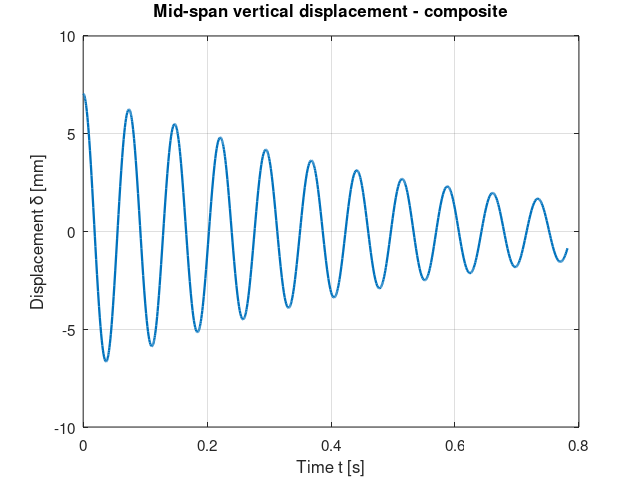
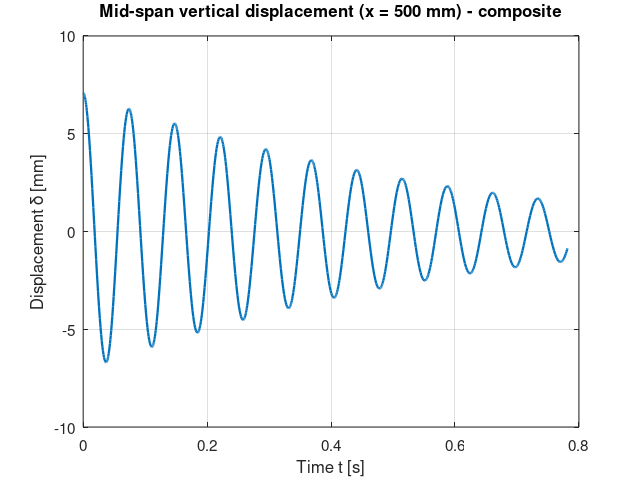
Mid-span read-out at exactly x = L/2 (cubic Hermite from nodes 8-9); keep node-9 value as res.midspan_node; tests, docs, KNOWN_ISSUES #9, catalog peaks, figures

diff --git a/tests/run_tests.m b/tests/run_tests.m
@@ -40,6 +40,30 @@ check('plot_fields: <case>_fields.png and <case>_strain.png written, no figure l
     exist(fullfile(od,'base_fields.png'),'file')==2 && exist(fullfile(od,'base_strain.png'),'file')==2 && numel(findall(0,'type','figure'))==nfig0, ...
     sprintf('(%d figures open)', numel(findall(0,'type','figure'))));
 
+% 2c. mid-span value: deflection at exactly x = L/2 (Hermite) - consistent with the strain_figure shape, the
+%     node value, and exact for synthetic data (src/midspan_deflection.m; dof map of build_beam.m)
+Nn = 16; Ln = 1000; Lk = Ln/(Nn-1); xn = (0:Nn-1)'*Lk;
+wn = sin(pi*xn/Ln); thn = pi/Ln*cos(pi*xn/Ln); un = zeros(1,2*Nn-2);
+for k = 2:Nn-1, un(2*k-3) = wn(k); un(2*k-2) = thn(k); end
+un(2*Nn-3) = thn(1); un(2*Nn-2) = thn(Nn);
+[wmid,wnode,minfo] = midspan_deflection([zeros(1,2*Nn-2) un], Nn, Ln);
+check('midspan_deflection: sin(pi x/L) -> 1 at x = L/2 (Hermite, N=16), node 9 is lower', abs(wmid-1) < 1e-4 && abs(wnode-sin(pi*xn(9)/Ln)) < 1e-12 && minfo.x_node > 500, ...
+    sprintf('w(L/2) = %.7f, node %d (x = %.1f mm) = %.5f', wmid, minfo.node, minfo.x_node, wnode));
+Nn = 15; Lk = Ln/(Nn-1); xn = (0:Nn-1)'*Lk; wn = sin(pi*xn/Ln); thn = pi/Ln*cos(pi*xn/Ln); un = zeros(1,2*Nn-2);
+for k = 2:Nn-1, un(2*k-3) = wn(k); un(2*k-2) = thn(k); end
+un(2*Nn-3) = thn(1); un(2*Nn-2) = thn(Nn);
+[wmid,~,minfo] = midspan_deflection([zeros(1,2*Nn-2) un], Nn, Ln);
+check('midspan_deflection: N-1 even -> the middle node itself', abs(wmid-1) < 1e-12 && minfo.x_node == 500, sprintf('node %d at x = %g mm', minfo.node, minfo.x_node));
+fh = figure('visible','off');
+[xs_,ws_] = strain_figure(rf.fields.epsyylon, rf.XX, 16, 1000, 10, rf.TT(end), fh); close(fh);
+[~,im_] = min(abs(xs_-500));
+check('res.midspan(end) == deformed shape of strain_figure at x = L/2', abs(xs_(im_)-500) < 1e-9 && abs(ws_(im_)-rf.midspan(end)) < 1e-9*max(1,abs(rf.midspan(end))), ...
+    sprintf('%.6f vs %.6f mm', ws_(im_), rf.midspan(end)));
+mm_ = abs(rf.midspan_node) > 0.5*max(abs(rf.midspan_node));
+rat_ = rf.midspan(mm_)./rf.midspan_node(mm_);
+check('mode-1 midspan is ~0.5-0.7 % larger than node 9', all(rat_ > 1.003 & rat_ < 1.010) && rf.x_midspan_node > 530 && rf.x_midspan_node < 535, ...
+    sprintf('ratio %.4f..%.4f, node 9 at x = %.1f mm', min(rat_), max(rat_), rf.x_midspan_node));
+
 % 3. global state is reset between runs: same case twice in one session -> identical
 r2 = run_case('base','Tf',Tf,'figures','none','save_mat',false);
 check('re-run in the same session identical', isequal(r.XX,r2.XX), sprintf('max |dXX| = %g', max(abs(r.XX(:)-r2.XX(:)))));
@@ -72,7 +96,7 @@ if strcmp(mode,'full')
     % 7. full base case: peaks vs thesis Fig. 4.3 and the stored reference run of the Octave port
     r = run_case('base','figures','save','save_mat',false);
     pk = r.peaks(:,2)';
-    expect = [7.09 5.49 4.15 3.07 2.24 1.61];   % with the corrected (||) Newton loop; the original && gave 5.494 / 4.155 / 3.076
+    expect = [7.13 5.52 4.17 3.09 2.25 1.62];   % deflection at x = L/2 (Hermite), corrected (||) Newton loop; node 9 (before 13 Nov 2026) gave 7.09 5.49 4.15 3.07 2.24 1.61
     check('base full run: ring-down peaks', numel(pk) >= 6 && all(abs(pk(1:6)-expect) < 0.02), ...
         sprintf('peaks [mm]: %s (expected %s; thesis Fig. 4.3: ~5.5 4.15 3.1 2.2 1.6 after the first)', mat2str(pk(1:min(6,end)),3), mat2str(expect)));
     r = run_case('composite','figures','save','save_mat',false);

diff --git a/run_case.m b/run_case.m
@@ -25,7 +25,8 @@ function res = run_case(c, varargin)
 %     'plot_fields' true = also plot, at the last time step, the martensite fractions (src/meshare.m, <case>_fields.png)
 %                   and the deformed beam + strain map (src/strain_figure.m, <case>_strain.png)
 %
-%   Returns res with fields TT, XX, midspan, runtime_s, cfg, peaks (time, height).
+%   Returns res with fields TT, XX, midspan (deflection at x = L/2, Hermite-interpolated), midspan_node
+%   (old value: node 9, x = res.x_midspan_node), runtime_s, cfg, peaks (time, height of midspan).
 setup_paths();
 if nargin == 0
     fig = sma_gui();                      % interactive start window (or text menu without display)
@@ -96,13 +97,13 @@ show = any(strcmp(opt.figures,{'show','both'}));
 dosave = any(strcmp(opt.figures,{'save','both'}));
 if ~strcmp(opt.figures,'none')
     if show, f = figure; else, f = figure('visible','off'); end
-    plot(res.TT, res.midspan, 'LineWidth', 1.5); hold on
+    plot(res.TT, res.midspan, 'LineWidth', 1.5); hold on   % deflection at x = L/2
     if ~isempty(ref), plot(ref.TT, ref.midspan, 'LineWidth', 1.5); end
     grid on; xlabel('Time t [s]'); ylabel('Displacement \delta [mm]');
-    ttl = sprintf('Mid-span vertical displacement - %s', strrep(cfg.name,'_','\_'));
+    ttl = sprintf('Mid-span vertical displacement (x = %g mm) - %s', cfg.geom.L/2, strrep(cfg.name,'_','\_'));
     if cfg.p_modified, ttl = [ttl ' (modified p)']; end
     title(ttl);
-    if ~isempty(ref), legend('SMA (loss-factor damping)','linear reference, E = 26 GPa, Rayleigh 1.3 %'); end
+    if ~isempty(ref), legend(sprintf('SMA (loss-factor damping), x = %g mm',cfg.geom.L/2),sprintf('linear reference, E = 26 GPa, Rayleigh 1.3 %%, x = %g mm',cfg.geom.L/2)); end
     if dosave
         if ~exist(opt.outdir,'dir'), mkdir(opt.outdir); end
         fn = fullfile(opt.outdir, [cfg.name tag '_midspan.png']);
@@ -136,8 +137,8 @@ if opt.plot_fields && isfield(res,'fields') && strcmp(cfg.model,'two_phase') && 
 end
 if opt.save_mat
     if ~exist(opt.outdir,'dir'), mkdir(opt.outdir); end
-    TT = res.TT; XX = res.XX; midspan = res.midspan; peaks = res.peaks; %#ok<NASGU>
-    save('-v7', fullfile(opt.outdir,[cfg.name tag '_result.mat']), 'TT','XX','midspan','peaks','cfg');
+    TT = res.TT; XX = res.XX; midspan = res.midspan; midspan_node = res.midspan_node; x_midspan_node = res.x_midspan_node; peaks = res.peaks; %#ok<NASGU>
+    save('-v7', fullfile(opt.outdir,[cfg.name tag '_result.mat']), 'TT','XX','midspan','midspan_node','x_midspan_node','peaks','cfg');
 end
 end
 

diff --git a/src/midspan_deflection.m b/src/midspan_deflection.m
@@ -1,0 +1,44 @@
+function [wm, w_node, info] = midspan_deflection(XX, N, L)
+% MIDSPAN_DEFLECTION  vertical deflection of the beam at EXACTLY x = L/2, from the state history XX.
+%
+%   [wm, w_node, info] = midspan_deflection(XX, N, L)
+%     XX      state history, one row per time step, X = [velocities(2N-2) ; displacements(2N-2)]
+%     wm      deflection at x = L/2 [mm]: cubic Hermite interpolation with the shape functions of the
+%             Euler-Bernoulli element (the same as in the FE model) through w and theta of the two nodes
+%             that bracket L/2 (nodes 8 and 9 for N = 16). If a node sits exactly at L/2 (N odd) its
+%             deflection is returned.
+%     w_node  the OLD "mid-span" value: deflection of one node near the middle (node N/2+1 = 9 for N = 16,
+%             x = 533 mm, which is what the original code and all results before 13 Nov 2026 used)
+%     info    struct: .x_node, .node (index), .col (column in XX of that node's deflection),
+%             .elem, .s (position of L/2 inside the bracketing element, 0..1), .nodes (bracketing nodes)
+%
+% DOF MAP (checked against src/build_beam.m: Extr / Extr_tr; the element dofs are [w_a theta_a w_b theta_b]
+% with theta = dw/dx - the element B matrix is built from the second derivatives of the same Hermite
+% functions, curvature = w'' = Bk*[...], strain = -y*w''):
+%   free displacement dofs u(1:2N-2) = XX(:, 2N-1:end)
+%   node k = 2..N-1 : w_k = u(2k-3), theta_k = u(2k-2)
+%   node 1          : w_1 = 0 (support), theta_1 = u(2N-3)
+%   node N          : w_N = 0 (support), theta_N = u(2N-2)
+Lk = L/(N-1);
+u  = XX(:, 2*N-1:end);
+nr = size(XX,1);
+w  = zeros(nr,N);  th = zeros(nr,N);
+for k = 2:N-1
+    w(:,k)  = u(:,2*k-3);
+    th(:,k) = u(:,2*k-2);
+end
+th(:,1) = u(:,2*N-3);
+th(:,N) = u(:,2*N-2);
+
+xm = L/2;
+e  = min(floor(xm/Lk + 1e-9) + 1, N-1);        % element that contains L/2
+s  = (xm - (e-1)*Lk)/Lk;                        % 0..1 inside that element
+if s < 1e-9, s = 0; end                         % a node sits exactly at L/2
+h1 = 1-3*s^2+2*s^3;   h2 = Lk*(s-2*s^2+s^3);    % Hermite shape functions at s
+h3 = 3*s^2-2*s^3;     h4 = Lk*(-s^2+s^3);
+wm = h1*w(:,e) + h2*th(:,e) + h3*w(:,e+1) + h4*th(:,e+1);
+
+if mod(N,2) == 0, node = N/2+1; else, node = (N+1)/2; end   % N even: node 9 of 16 (as before); N odd: exact middle node
+w_node = w(:,node);
+info = struct('x_node',(node-1)*Lk, 'node',node, 'col',2*N-2+2*node-3, 'elem',e, 's',s, 'nodes',[e e+1]);
+end

diff --git a/src/sma_beam_solve.m b/src/sma_beam_solve.m
@@ -10,7 +10,8 @@ function res = sma_beam_solve(cfg)
 %
 %   res = sma_beam_solve(cfg)   cfg: struct from a cases/case_*.m file (see case_base.m)
 %   res.TT, res.XX   time [s] and state [velocities(30) displacements(30)]
-%   res.midspan      mid-span vertical displacement [mm]
+%   res.midspan      vertical displacement at x = L/2 [mm] (Hermite interpolation, nodes 8-9 for N=16)
+%   res.midspan_node old mid-span value: node 9, x = res.x_midspan_node (533 mm); res.col = its column in XX
 %   res.fields       (optional) strain / martensite fractions / stress at every step
 %
 % Variable names (N, Ea, Emp, ..., KFF, CFF, LF, xisp, ...) are the original ones.
@@ -219,13 +220,18 @@ while T(end) < Tf-0.0001
 end
 
 % ---- MID-SPAN VERTICAL DISPLACEMENT ----
-col = 2*N-2+2*N/2-1;                      % column of the mid-span displacement in X
+% res.midspan = deflection at EXACTLY x = L/2 (cubic Hermite through nodes 8 and 9 for N = 16, see
+% midspan_deflection.m). Before 13 Nov 2026 the value of node 9 (x = 533 mm) was used; it is kept as
+% res.midspan_node (column res.col of XX, position res.x_midspan_node).
+[midspan, midspan_node, mi] = midspan_deflection(XX, N, cfg.geom.L);
+col = mi.col;
 if cfg.post.shift_to_first_max
     % the time axis starts at the first (largest) mid-span maximum, as in the original
-    indice = find(XX(:,col) == max(XX(:,col)));
+    indice = find(midspan == max(midspan));
     indice = indice(1);
     TT = TT(indice:end)-TT(indice);
     XX = XX(indice:end,:);
+    midspan = midspan(indice:end);  midspan_node = midspan_node(indice:end);
     if histmode == 1                          % shift only a full history
         epsyylon = epsyylon(:,indice:end);
         xysp = xysp(:,indice:end);
@@ -240,7 +246,10 @@ end
 res.TT = TT;
 res.XX = XX;
 res.col = col;
-res.midspan = XX(:,col);
+res.midspan = midspan;                    % [mm] at x = L/2
+res.x_midspan = cfg.geom.L/2;
+res.midspan_node = midspan_node;          % [mm] old value: node mi.node, x = res.x_midspan_node
+res.x_midspan_node = mi.x_node;
 res.runtime_s = toc(tic_start);
 res.nrestart = nrestart;
 if cfg.post.keep_fields

diff --git a/src/strain_figure.m b/src/strain_figure.m
@@ -1,4 +1,4 @@
-function strain_figure(epsyylon, XX, N, L, thick, t_end, fig)
+function [xs, ws] = strain_figure(epsyylon, XX, N, L, thick, t_end, fig)
 % STRAIN_FIGURE  thesis-style picture of the beam at the LAST time step:
 %   top    : vertical displacement along the beam [mm], deformed (cubic Hermite through the nodal
 %            deflections w and rotations theta) against the undeformed axis, with nodes marked;
@@ -6,13 +6,16 @@ function strain_figure(epsyylon, XX, N, L, thick, t_end, fig)
 %            interpolation as src/meshare.m: smooth_mean2d(.,1,8) + interp2).
 %   epsyylon : strain at the integration points, one column per time step (res.fields.epsyylon)
 %   XX       : state history [velocities(2N-2) displacements(2N-2)] (res.XX), last row is used
+%   xs, ws   : (optional outputs) abscissae and deflection of the plotted deformed shape; ws at x = L/2
+%              equals res.midspan(end) (src/midspan_deflection.m, checked in tests/run_tests.m)
 %   fig      : (optional) figure handle to draw in; a new figure is opened if omitted.
 if nargin < 7 || isempty(fig), fig = figure; end
 figure(fig); clf
 Lk = L/(N-1);
 u  = XX(end, 2*N-1:end).';                 % free displacement dofs at the last step
-% nodal deflection w_k and rotation th_k (dof map of build_beam.m: node k=2..N-1 -> dofs 2k-3, 2k-2;
-% the end rotations are dofs 2N-3 (node 1) and 2N-2 (node N); w = 0 at both supports)
+% nodal deflection w_k and rotation th_k = dw/dx (dof map of build_beam.m, verified: element dofs
+% [w_a th_a w_b th_b], node k=2..N-1 -> dofs 2k-3, 2k-2; the end rotations are dofs 2N-3 (node 1)
+% and 2N-2 (node N); w = 0 at both supports; same map as src/midspan_deflection.m)
 w  = zeros(N,1);  th = zeros(N,1);
 for k = 2:N-1, w(k) = u(2*k-3); th(k) = u(2*k-2); end
 th(1) = u(2*N-3);  th(N) = u(2*N-2);

diff --git a/src/case_catalog.m b/src/case_catalog.m
@@ -16,11 +16,11 @@ rows = {
    'Cu-Al-Zn-Mn beam 1000 x 15 x 10 mm, simply supported, ferro-elastic.'
    'Released with an initial half-sine velocity; it rings down because every'
    'stress reversal dissipates energy (loss factor eta ~ 0.14, thesis Fig. 4.3).'
-   'Expected mid-span peaks: 7.09, 5.49, 4.15, 3.07, 2.24, 1.61 mm.'}
+   'Expected mid-span (x = 500 mm) peaks: 7.13, 5.52, 4.17, 3.09, 2.25, 1.62 mm.'}
  'composite', 'Composite: GFRP / SMA / GFRP sandwich beam', 2, false, {
    'SMA core 15 x 10 mm between two linear GFRP skins (thesis chapter 4.1,'
    'configuration 1). Free vibration; rings down more slowly than the pure SMA beam.'
-   'Expected mid-span peaks: 7.05, 6.25, 5.50, 4.81, 4.19, 3.63 mm.'}
+   'Expected mid-span (x = 500 mm) peaks: 7.09, 6.28, 5.53, 4.84, 4.21, 3.65 mm.'}
  'hle_linear', 'Linear reference beam (E = 26 GPa, Rayleigh 1.3 %)', 2, false, {
    'The same beam as the base case but linear elastic with Rayleigh damping.'
    'Shows what the SMA damping adds. No loss-factor polynomial is used.'}

diff --git a/src/linear_beam_solve.m b/src/linear_beam_solve.m
@@ -70,14 +70,19 @@ while T(end)<Tf-0.0001
     T0 = TT(end);
     X0 = X(end,:)';
 end
-col = 2*N-2+2*N/2-1;
+% res.midspan = deflection at EXACTLY x = L/2 (cubic Hermite, see midspan_deflection.m); the old node value
+% (node 9 of 16, x = 533 mm) is kept as res.midspan_node
+[midspan, midspan_node, mi] = midspan_deflection(XX, N, cfg.geom.L);
+col = mi.col;
 if cfg.post.shift_to_first_max
-    indice = find(XX(:,col) == max(XX(:,col)));
+    indice = find(midspan == max(midspan));
     indice = indice(1);
     TT = TT(indice:end)-TT(indice);
     XX = XX(indice:end,:);
+    midspan = midspan(indice:end);  midspan_node = midspan_node(indice:end);
 end
-res.TT = TT; res.XX = XX; res.col = col; res.midspan = XX(:,col);
+res.TT = TT; res.XX = XX; res.col = col; res.midspan = midspan; res.x_midspan = cfg.geom.L/2;
+res.midspan_node = midspan_node; res.x_midspan_node = mi.x_node;
 res.runtime_s = toc(tic_start); res.alpha = alpha; res.beta = beta;
 end
 

diff --git a/cases/case_base.m b/cases/case_base.m
@@ -4,7 +4,8 @@ function cfg = case_base()
 %   released with an initial half-sine velocity field. It rings down because every stress
 %   reversal dissipates energy (loss factor eta ~ 0.14, C = eta/(2*pi*10 Hz) K).
 %   Original: Loss/FEM1D.m (+ myfun.m, fun_ode_1D.m).  Expected peaks of the mid-span
-%   displacement after the time shift: 7.09 (t=0), 5.49, 4.16, 3.08, 2.24, 1.61 mm.
+%   displacement at x = L/2 (Hermite) after the time shift: 7.13 (t=0), 5.52, 4.17, 3.09, 2.25, 1.62 mm
+%   (the node-9 value used before 13 Nov 2026 is 0.56 % lower: 7.09, 5.49, 4.15, 3.07, 2.24, 1.61).
 cfg = default_config();
 cfg.name = 'base';
 cfg.description = 'Free vibration, SMA beam 15x10 mm, ferro-elastic, loss-factor damping (Loss/FEM1D.m)';

diff --git a/README.md b/README.md
@@ -113,19 +113,27 @@ were not completed (too slow), so those two were compared with the old code only
 
 ### Expected output of the base case
 
-The mid-span deflection rings down like this (peak heights, time axis starting at the first
-maximum):
+The mid-span deflection (at exactly x = L/2 = 500 mm, see below) rings down like this (peak heights, time axis
+starting at the first maximum):
 
 | peak | 1 | 2 | 3 | 4 | 5 | 6 |
 |---|---|---|---|---|---|---|
 | t [s] | 0 | 0.110 | 0.220 | 0.329 | 0.437 | 0.543 |
-| height [mm] | 7.09 | 5.49 | 4.15 | 3.07 | 2.24 | 1.61 |
+| height [mm] | 7.13 | 5.52 | 4.17 | 3.09 | 2.25 | 1.62 |
 
 (The ratio of successive peaks, ~0.76, is what the loss factor controls; peaks 2-6 are the
 values of thesis Fig. 4.3: about 5.5, 4.15, 3.1, 2.2, 1.6 mm.)
 
+*Which point is "mid-span"?* With N = 16 nodes (15 elements) there is no node at x = L/2: the nodes 8 and 9 sit at
+x = 467 and 533 mm. Until 12 Nov 2026 the code reported the deflection of node 9 (x = 533 mm). Now `res.midspan`
+is the deflection at exactly x = 500 mm, obtained with the cubic Hermite shape functions of the beam element from
+w and theta of nodes 8 and 9 (`src/midspan_deflection.m`); for mode 1 it is 0.56 % larger. The old node value is
+kept as `res.midspan_node` (position `res.x_midspan_node` = 533 mm, column `res.col` of `res.XX`). The old peaks
+were 7.09, 5.49, 4.15, 3.07, 2.24, 1.61 mm. (The force of the `pulse` cases is still applied symmetrically around node 9,
+see `KNOWN_ISSUES.md` #9.)
+
 The sandwich beam (`run_case('composite')`, GFRP skins around the SMA core) rings down more slowly
-than the pure SMA beam (the SMA is only part of the structure): peaks 7.05, 6.25, 5.50, 4.81, 4.19, 3.63 mm
+than the pure SMA beam (the SMA is only part of the structure): peaks 7.09, 6.28, 5.53, 4.84, 4.21, 3.65 mm (node-9 values: 7.05, 6.25, 5.50, 4.81, 4.19, 3.63)
 (`docs/composite_midspan.png`).
 
 The fields at the last time step can be plotted with

diff --git a/KNOWN_ISSUES.md b/KNOWN_ISSUES.md
@@ -69,6 +69,23 @@ It builds the initial stiffness matrix but has no `save`; the `KFF.mat` in the o
 by hand, and differs ~12 % from what the script computes. The main path does not need `KFF.mat`
 (the solver builds the matrix), so the script was dropped (a copy is in `archive/loss_variants/xiT0nullo/`).
 
+## 9. The "mid-span" displacement was the deflection of node 9, not of x = L/2 - FIXED (approved by the author, 13 Nov 2026)
+
+`FEM1D.m` read the mid-span displacement from `X(:,45)`, i.e. the deflection dof of node 9 (dof map of
+`build_beam.m`: node k has w = dof 2k-3, theta = dof 2k-2). With N = 16 nodes (15 elements) the middle of the
+beam is the middle of element 8 (between nodes 8 and 9), so node 9 sits at x = 533 mm and its peaks are
+~0.56 % lower than at x = 500 mm for mode 1. `res.midspan` is now the deflection at exactly x = L/2, interpolated with
+the cubic Hermite functions of the element from w and theta (theta = dw/dx, the same convention as the stiffness
+and strain matrices) of nodes 8 and 9; if N-1 is even the middle node is used. The old value remains as
+`res.midspan_node` / `res.x_midspan_node` / `res.col`. Base peaks, old -> new: 7.087 -> 7.128, 5.490 -> 5.521,
+4.149 -> 4.172, 3.072 -> 3.090, 2.239 -> 2.252, 1.612 -> 1.621, 1.149 -> 1.155, 0.812 -> 0.817 mm. The state XX and
+all physics are unchanged; only the read-out changed.
+
+**Still as in the original (not changed):** the force of the `pulse` cases is applied to elements N/2 and N/2+1
+(elements 8 and 9), i.e. symmetric around node 9 (x = 533 mm), not around L/2. The initial velocity field
+(`initial_velocity.m`) is not affected by this. If a load exactly at mid-span is wanted, the force would have to be split between
+nodes 8 and 9.
+
 ## 8. Smaller things
 * `functxi.m` (archive): operator-precedence bug `xi_T(indp) .* 1-xi_sp(indp)`; never called.
 * `Brinson/Prova_zone.m` calls `Zone` with the wrong number of arguments; `Zone_simpl.m` has a syntax

diff --git a/CLEANUP_REPORT.md b/CLEANUP_REPORT.md
@@ -12,6 +12,13 @@
 > composite peaks 7.05 / 6.25 / 5.50 / 4.81 / 4.19 / 3.63 / 3.13 / 2.69 mm (1162 steps). The equivalence tests against
 > the original scripts now run the original with only that one `&&` -> `||` patch (`tests/run_original.m`).
 > **Open questions 1, 2 and 3 of section 6 are resolved** (MIT + own smoother; `||`; original `p.mat`).
+> **Update of 13 Nov 2026 (mid-span read-out, approved by the author).** `res.midspan` is now the deflection at exactly
+> x = L/2 = 500 mm (cubic Hermite interpolation from w and theta of nodes 8 and 9, `src/midspan_deflection.m`); before it was
+> the deflection of node 9 (x = 533 mm, `X(:,45)` in the original), kept as `res.midspan_node`. All peak numbers quoted
+> below (7.09 / 5.49 / 4.15 / ...) are the node-9 values; the x = 500 mm values are **7.13 / 5.52 / 4.17 / 3.09 / 2.25 /
+> 1.62 / 1.16 / 0.82 mm** (+0.56 %), composite 7.09 / 6.28 / 5.53 / 4.84 / 4.21 / 3.65 mm. XX (the full state), the physics
+> and the equivalence tests against the original scripts are unaffected. See `KNOWN_ISSUES.md` #9. Also on 12 Nov: speed-up
+> (`PERF_NOTES.md`), start window, thesis-style strain figure.
 
 Cleanup of Federico Aghito's master's-thesis code (SMA beam vibration / damping) into a
 repository-ready folder that runs in GNU Octave 10.3. Done on the night of 10 Nov 2026,
